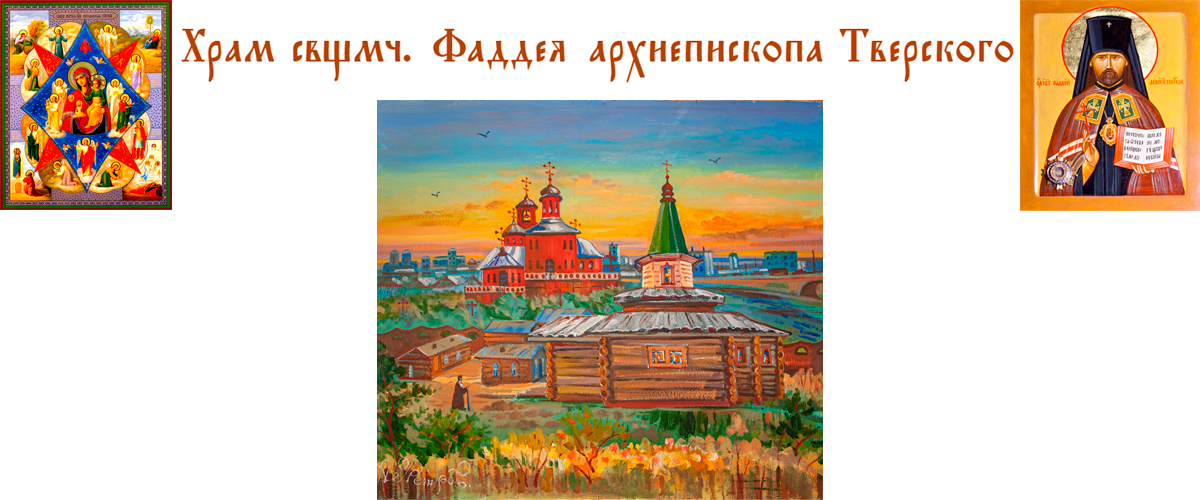
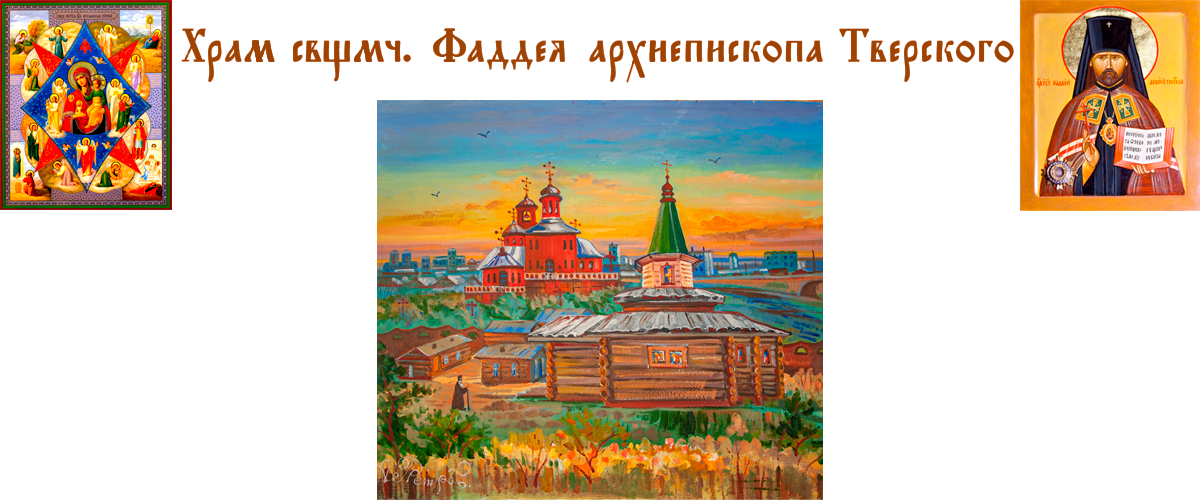
2022_03_16 Свщмч

Changed region(s): [[0.37, 0.06, 0.6783, 0.15], [0.1542, 0.06, 0.3392, 0.15], [0.7092, 0.06, 0.8633, 0.15]]

diff --git a/include/header.php b/include/header.php
@@ -1,7 +1,7 @@
 <div class="top" id="top" style="background-image: url(<?=APPLICATION ?>/images/shapka_zima.jpg); background-position-x: center; background-position-y: top; background-size: cover;">
     <div class="container" style="margin-bottom: 0;">
         <div class="header">
-            <a href="<?=APPLICATION ?>/"><img src="<?=APPLICATION ?>/images/header_prozrachny.png?date=20220316" class="img-fluid d-none d-md-block" /></a>
+            <a href="<?=APPLICATION ?>/"><img src="<?=APPLICATION ?>/images/header_prozrachny.png?date=20220317" class="img-fluid d-none d-md-block" /></a>
             <div class="d-none d-md-block" style="font-family: Times New Roman, Times, serif; position: absolute; top: 50%; left: 1%; color: #913d14; font-size: large; line-height: normal; font-style: italic; font-weight: bold; width: 25%; text-align: left;">
                 &#8222;Сними обувь твою с ног твоих, ибо место, на котором ты стоишь, есть земля святая.&#8220;
                 <div style="text-align: right; font-size: smaller;">Исх 3:5</div>
@@ -16,7 +16,7 @@
                     <a href="<?=APPLICATION ?>/"><img src="<?=APPLICATION ?>/images/petrov_image_400.png" class="img-fluid" /></a>
                 </div>
                 <div class="col-8 pt-2">
-                    <a href="<?=APPLICATION ?>/"><img src="<?=APPLICATION ?>/images/header_slav_transparent.png?date=20220316" class="img-fluid" /></a>
+                    <a href="<?=APPLICATION ?>/"><img src="<?=APPLICATION ?>/images/header_slav_transparent.png?date=20220317" class="img-fluid" /></a>
                 </div>
             </div>
             
